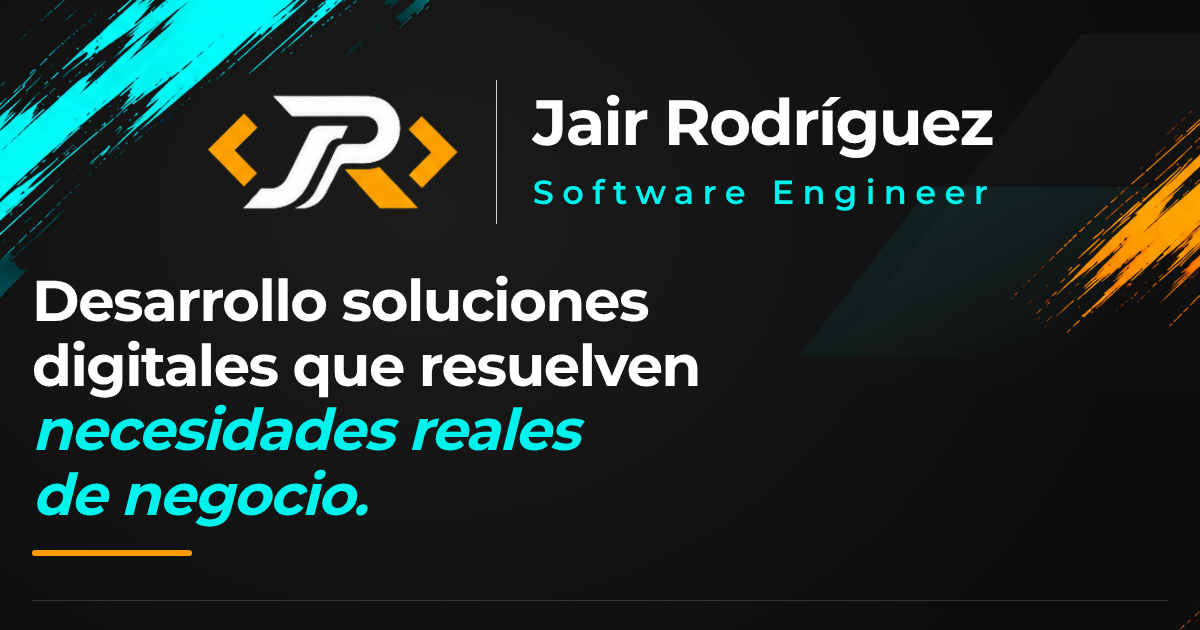
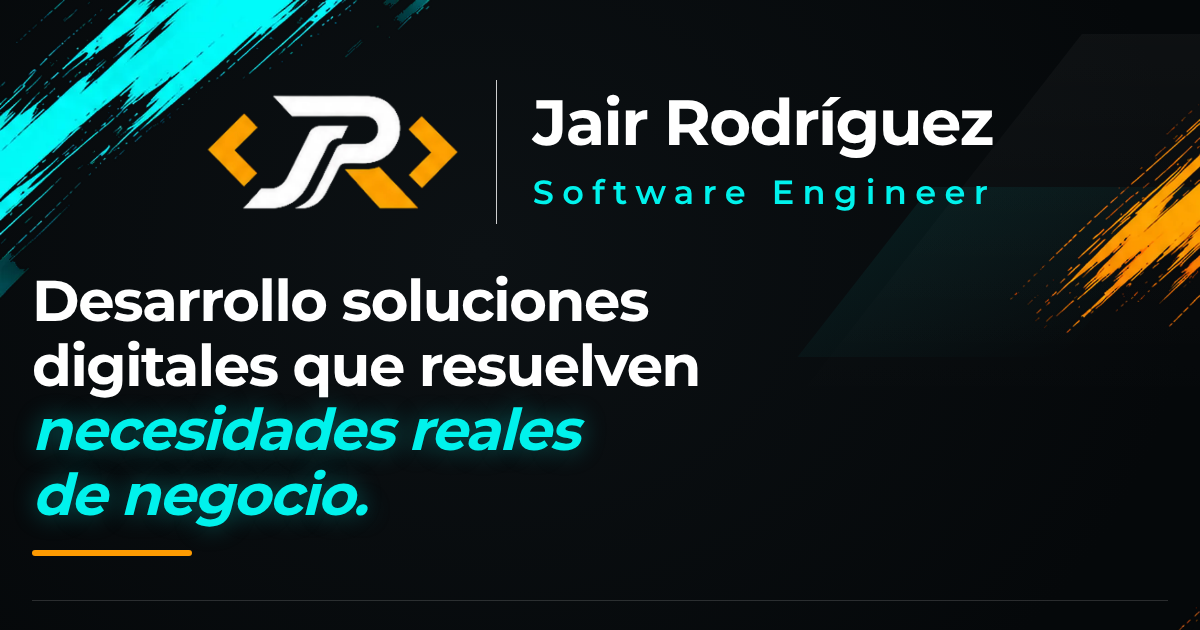
Tarjeta JR: fondo negro profundo y más contraste
Claude-Session: https://claude.ai/code/session_01SPZzE7V1rF7zVSmvmfi8Vf

diff --git a/components/jr/JrCard.tsx b/components/jr/JrCard.tsx
@@ -55,11 +55,11 @@ function Brush({ src, w, h, className }: { src: string; w: number; h: number; cl
 
 export default function JrCard() {
   return (
-    <main className={`${jrFont.className} relative min-h-screen overflow-hidden bg-[#0D0D0D] text-white`}>
+    <main className={`${jrFont.className} relative min-h-screen overflow-hidden bg-[#05080A] text-white`}>
       {/* Fondo: carbón con formas geométricas sutiles */}
       <div
         aria-hidden="true"
-        className="pointer-events-none absolute inset-0 bg-[radial-gradient(ellipse_at_35%_25%,#1C1C1C_0%,transparent_65%)]"
+        className="pointer-events-none absolute inset-0 bg-[radial-gradient(ellipse_at_40%_30%,#0C1114_0%,transparent_70%)]"
       />
       <div
         aria-hidden="true"
@@ -106,7 +106,7 @@ export default function JrCard() {
           >
             Desarrollo soluciones <br className="hidden sm:block" />
             digitales que resuelven <br className="hidden sm:block" />
-            <em className="font-bold text-[#00F2EC]">
+            <em className="font-bold text-[#00F2EC] [text-shadow:0_0_24px_rgba(0,242,236,0.35)]">
               necesidades reales <br className="hidden sm:block" />
               de negocio.
             </em>
@@ -123,13 +123,13 @@ export default function JrCard() {
               return (
                 <li
                   key={s.title}
-                  className="flex flex-col rounded-[1.6rem] border border-white/[0.1] bg-gradient-to-b from-[#242424] to-[#171717] p-4 shadow-[0_18px_34px_-20px_rgba(0,0,0,1)] sm:p-6"
+                  className="flex flex-col rounded-[1.6rem] border border-white/[0.1] bg-gradient-to-b from-[#1E2023] to-[#15171A] p-4 shadow-[0_18px_34px_-20px_rgba(0,0,0,1)] sm:p-6"
                 >
                   <span className={`grid size-14 place-items-center rounded-2xl sm:size-[4.5rem] xl:size-20 ${a.tile} ${a.text}`}>
                     <Icon aria-hidden="true" strokeWidth={2.3} className="size-8 sm:size-11 xl:size-12" />
                   </span>
                   <h3 className="mt-4 text-[1.02rem] font-bold leading-tight sm:text-[1.45rem] lg:text-[1.55rem] xl:text-[1.75rem] tracking-tight">{s.title}</h3>
-                  <p className="mt-2 text-[0.88rem] font-medium leading-snug text-[#D6D6D6] sm:text-[1.05rem] xl:text-[1.15rem]">{s.description}</p>
+                  <p className="mt-2 text-[0.88rem] font-medium leading-snug text-[#E2E2E2] sm:text-[1.05rem] xl:text-[1.15rem]">{s.description}</p>
                 </li>
               );
             })}
@@ -142,10 +142,10 @@ export default function JrCard() {
             href={`https://wa.me/${contact.whatsapp}`}
             {...externalProps}
             aria-label="Hablemos por WhatsApp"
-            className="group flex min-h-[5rem] items-center gap-5 rounded-full bg-[#00F2EC] px-7 text-[#0D0D0D] shadow-[0_0_30px_-6px_rgba(0,242,236,0.6)] transition hover:-translate-y-0.5 hover:bg-[#5EF8F3] sm:min-h-24 sm:px-12 xl:min-h-[6.5rem]"
+            className="group flex min-h-[5rem] items-center gap-5 rounded-full bg-[#00F2EC] px-7 text-[#05080A] shadow-[0_0_36px_-4px_rgba(0,242,236,0.75)] transition hover:-translate-y-0.5 hover:bg-[#5EF8F3] sm:min-h-24 sm:px-12 xl:min-h-[6.5rem]"
           >
             <FaWhatsapp aria-hidden="true" className="size-10 shrink-0 sm:size-14" />
-            <span aria-hidden="true" className="h-12 w-px shrink-0 bg-[#0D0D0D]/30" />
+            <span aria-hidden="true" className="h-12 w-px shrink-0 bg-[#05080A]/30" />
             <span className="flex-1 leading-none">
               <span className="block text-base font-bold sm:text-xl xl:text-2xl">Hablemos por</span>
               <span className="mt-1 block text-[1.6rem] font-extrabold sm:text-[2rem] xl:text-[2.3rem]">WhatsApp</span>
